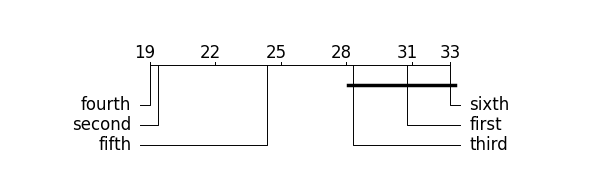
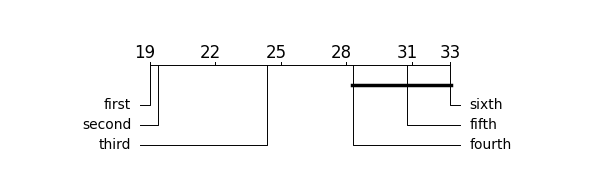
Fixed incorrect indexing and added message in docs

diff --git a/critical_difference/plot.py b/critical_difference/plot.py
@@ -11,13 +11,13 @@ def print_figure(fig, *args, **kwargs):
 
 def merge_nonsignificant_cliques(not_sig):
     # keep only longest
-    def no_longer(i, j, not_sig):
+    def contained_in_larger_interval(i, j, not_sig):
         for i1, j1 in not_sig:
             if (i1 <= i and j1 > j) or (i1 < i and j1 >= j):
-                return False
-        return True
+                return True
+        return False
 
-    longest = [(i, j) for i, j in not_sig if no_longer(i, j, not_sig)]
+    longest = [(i, j) for i, j in not_sig if not contained_in_larger_interval(i, j, not_sig)]
 
     return longest
 
@@ -41,6 +41,7 @@ def graph_ranks(scores, names, get_linked_methods,
     https://bitbucket.org/biolab/orange/src/a4303110189426d004156ce053ddb35a410e428a/Orange/evaluation/scoring.py
 
     :param scores: List of average methods' scores.
+    :type scores: list
     :param names: List of methods' names.
     :param get_linked_methods: callable that returns a list of tuples of indices of all pairs of methods
     that are not significantly different and should be connected in the diagram. Each tuple must be sorted,
@@ -52,7 +53,11 @@ def graph_ranks(scores, names, get_linked_methods,
          - [(4, 3)] contains a non-sorted tuple
 
     If there is a cluster of non-significant differences (e.g. 1=2, 2=3, 1=3), `graph_ranks` will draw
-    just a single link connecting all of them
+    just a single link connecting all of them.
+
+    Note: the indices returned by this callable should refer to positions in `scores` after it is sorted in increasing
+    order. It is to avoid confusion this function raises if `scores` is not sorted.
+
     :param lowv: The lowest shown score, if None, use min(scores).
     :param highv: The highest shown score, if None, use max(scores).
     :param width: Width of the drawn figure in inches, default 6 in.
@@ -62,6 +67,10 @@ def graph_ranks(scores, names, get_linked_methods,
     :param reverse:  If True, the lowest rank is on the right. Default is False.
 
     """
+
+    if sorted(scores) != scores:
+        raise ValueError('scores must be sorted to avoid confusion.')
+
     width = float(width)
     textspace = float(textspace)
 
@@ -146,10 +155,9 @@ def graph_ranks(scores, names, get_linked_methods,
         line([(rankpos(a), cline - tick / 2), (rankpos(a), cline)], linewidth=0.7)
 
     # tick labels on the x axis
-    for a in list(numpy.arange(lowv, highv + 1, tickstep)) + [highv]:
-        a = int(a)
+    for a in list(numpy.arange(lowv, highv, tickstep)) + [highv]:
         # todo add bbox=dict(facecolor='red', alpha=0.5) to see how text is aligned to ticks
-        text(rankpos(a), cline - tick / 2, str(a), ha="left", va="bottom")
+        text(rankpos(a), cline - tick / 2, '%1.1f' % a, ha="left", va="bottom")
 
     k = len(ssums)
 
@@ -166,9 +174,9 @@ def graph_ranks(scores, names, get_linked_methods,
         text(textspace + scalewidth + 0.2, chei, nnames[i], ha="left", va="center", **kwargs)
 
     # if cd and cdmethod is None:
-    #     # if we want to annotate a single method with the critical difference
+    # # if we want to annotate a single method with the critical difference
     #
-    #     # upper scale
+    # # upper scale
     #     if not reverse:
     #         begin, end = rankpos(lowv), rankpos(lowv + cd)
     #     else:
@@ -183,7 +191,7 @@ def graph_ranks(scores, names, get_linked_methods,
     def draw_lines(lines, side=0.01, height=0.1):
         # side = how much horizontal overhang should there be
         # height = how much vertical space between lines connecting non-significant methods
-        start = cline + .2 # vertical offset from the axis
+        start = cline + .2  # vertical offset from the axis
         for l, r in lines:
             line([(rankpos(ssums[l]) - side, start), (rankpos(ssums[r]) + side, start)], linewidth=2.5)
             start += height
@@ -202,7 +210,6 @@ def graph_ranks(scores, names, get_linked_methods,
     return fig
 
 
-
 def get_close_pairs(scores, threshold=1):
     # get all pairs
     n_methods = len(scores)
@@ -211,17 +218,13 @@ def get_close_pairs(scores, threshold=1):
     not_sig = [(i, j) for i, j in allpairs if abs(scores[i] - scores[j]) <= threshold]
     return not_sig
 
+
 def my_get_lines(*args):
     return [(3, 4), (4, 5), (3, 5)]
 
-def all_but_the_extremes(scores):
-    k = len(scores)
-    allpairs = list(combinations(range(k), 2))
-    allpairs.pop(k-2)
-    return allpairs
 
 if __name__ == "__main__":
-    avranks = [31.43, 20.00, 28.93, 19.64, 25, 33.4]
+    avranks = sorted([31.43, 20.00, 28.93, 19.64, 25, 33.4])
     names = ['first', 'second', 'third', 'fourth', 'fifth', 'sixth']
     fig = graph_ranks(avranks, names, my_get_lines, fontsize=10)
     print_figure(fig, "test.png", format='png')

diff --git a/critical_difference/tests.py b/critical_difference/tests.py
@@ -1,0 +1,14 @@
+from critical_difference.plot import merge_nonsignificant_cliques
+from random import shuffle
+
+
+def test_merge_cliques():
+    # these should not be merged
+    insignificant = [(0, 1), (1, 2)]
+    assert merge_nonsignificant_cliques(insignificant) == insignificant
+
+    # these are all together
+    insignificant = [(0, 1), (1, 2), (0, 2)]
+    for i in range(20):
+        shuffle(insignificant)
+        assert merge_nonsignificant_cliques(insignificant) == [(0, 2)]

diff --git a/README.md b/README.md
@@ -17,7 +17,7 @@ Demo
 First we define a bunch of method names and their respective scores.
 ```python
 names = ['first', 'second', 'third', 'fourth', 'fifth', 'sixth']
-scores = [31.43, 20.00, 28.93, 19.64, 25, 33.4]
+scores = sorted([31.43, 20.00, 28.93, 19.64, 25, 33.4]) # note the call to sorted
 
 ```
 We then write a function that takes the scores and returns the indices of methods
@@ -32,6 +32,10 @@ that no duplicate are should be contained in the list. Examples:
  - `[(0, 1), (3, 4), (4, 5)]` is correct
  - `[(0, 1), (3, 4), (4, 5), (3,4)]` contains a duplicate
  - `[(4, 3)]` contains a non-sorted tuple
+
+**Note:** the indices returned by this callable should refer to positions in `scores`
+after it is sorted in increasing order. It is to avoid confusion `graph_ranks`
+raises if `scores` is not sorted
 
 We can then plot the desired diagram and save it to disk:
 
@@ -48,7 +52,9 @@ print_figure(fig, "test.png", format='png')
 
 Here is another real-word example:
 
+![Screenshot 2](img/2.png "Example 2")
+
 License
 ===
-This program is a modified version of that found in [Orange](https://bitbucket.org/biolab/orange/src/a4303110189426d004156ce053ddb35a410e428a/Orange/evaluation/scoring.py)
+This program is based on code found in [Orange](https://bitbucket.org/biolab/orange/src/a4303110189426d004156ce053ddb35a410e428a/Orange/evaluation/scoring.py)
 and is distributed under the terms of the GNU General Public License Version 3.
